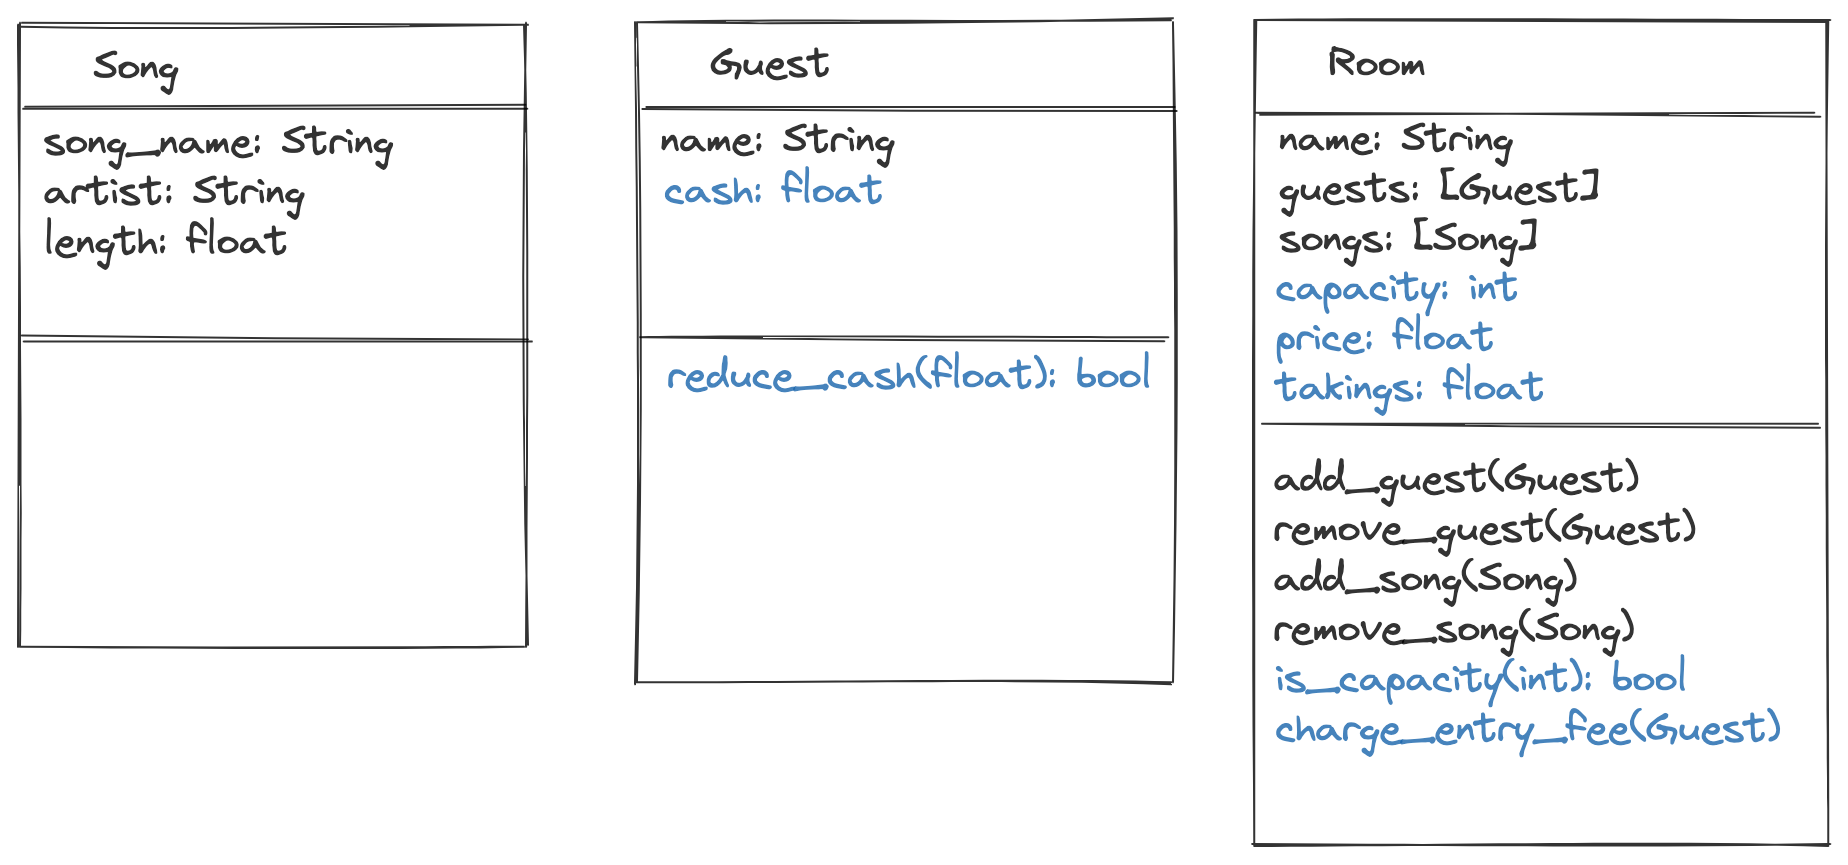
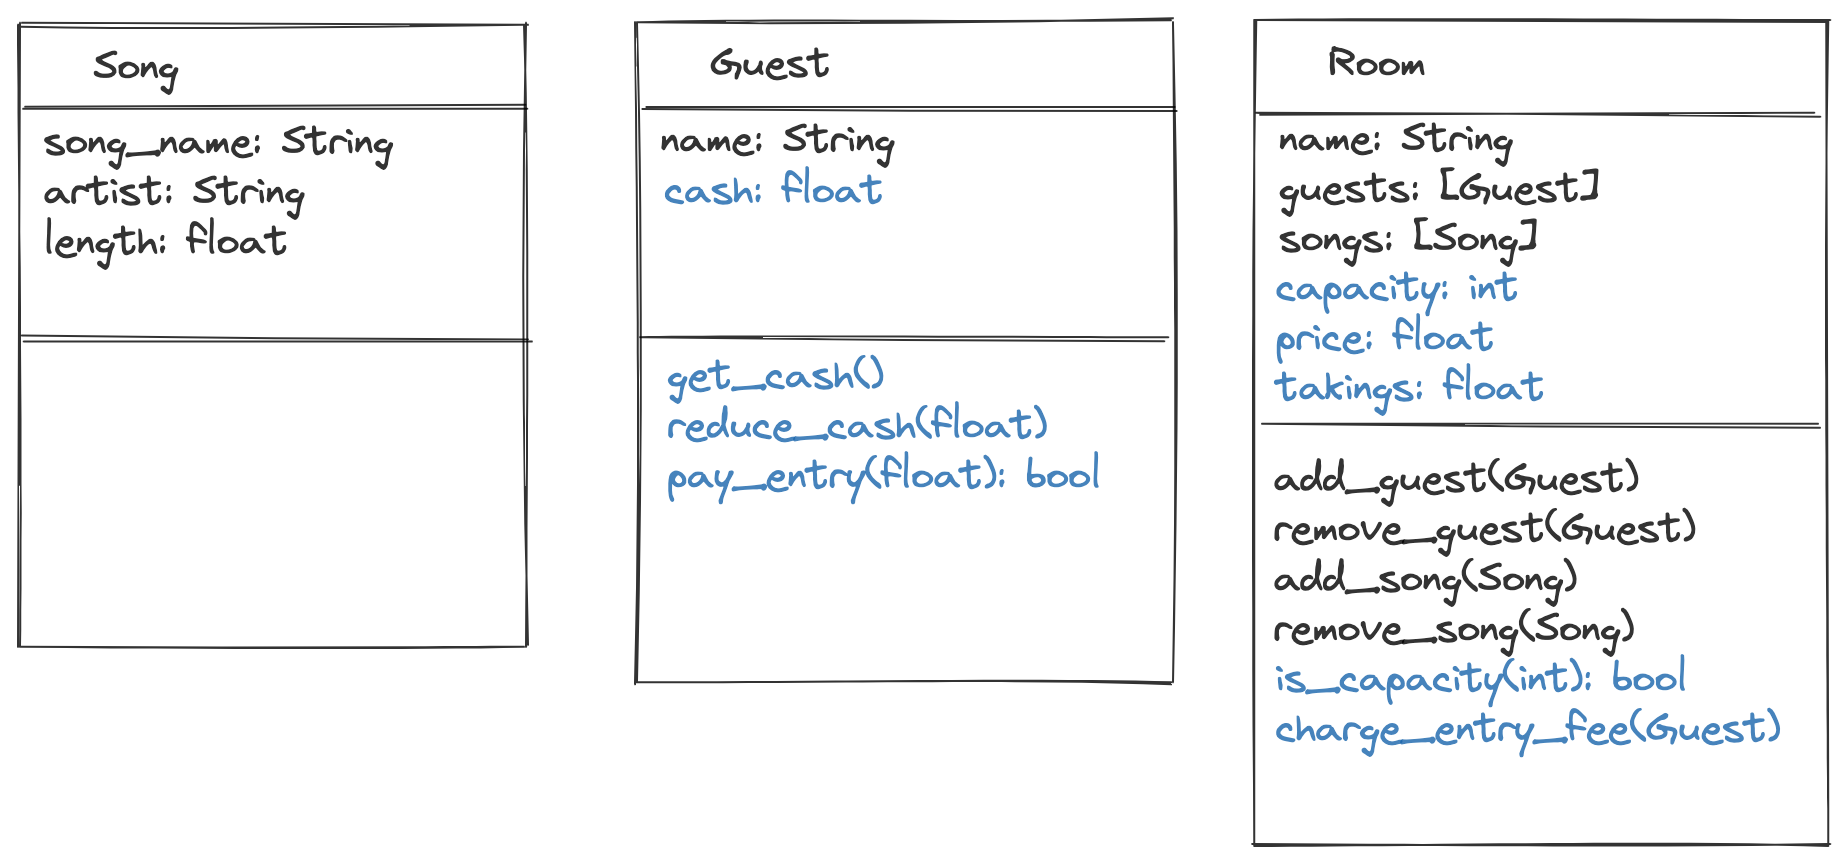
added pay entry method and tested for true and false

Changed region(s): [[0.3393, 0.4058, 0.6169, 0.5931]]

diff --git a/Karaoke/tests/guest_test.py b/Karaoke/tests/guest_test.py
@@ -15,3 +15,18 @@ class TestGuest(unittest.TestCase):
         expected = 50.00
         result = self.guest.get_cash()
         self.assertEqual(expected, result)
+
+    def test_can_pay_entry_fee(self):
+        result1 = self.guest.pay_entry_fee(15)
+        self.assertTrue(result1)
+        expected = 35
+        result2 = self.guest.get_cash()
+        self.assertEqual(expected, result2)
+
+    def test_cannot_pay_entry_fee(self):
+        result1 = self.guest.pay_entry_fee(60)
+        self.assertFalse(result1)
+        expected = 50
+        result2 = self.guest.get_cash()
+        self.assertEqual(expected, result2)
+        

diff --git a/Karaoke/src/guest.py b/Karaoke/src/guest.py
@@ -6,3 +6,13 @@ class Guest:
 
     def get_cash(self):
         return self.cash
+
+    def reduce_cash(self, amount):
+        self.cash -= amount
+
+    def pay_entry_fee(self, amount):
+        if self.cash >= amount:
+            self.reduce_cash(amount)
+            return True
+        else:
+            return False
